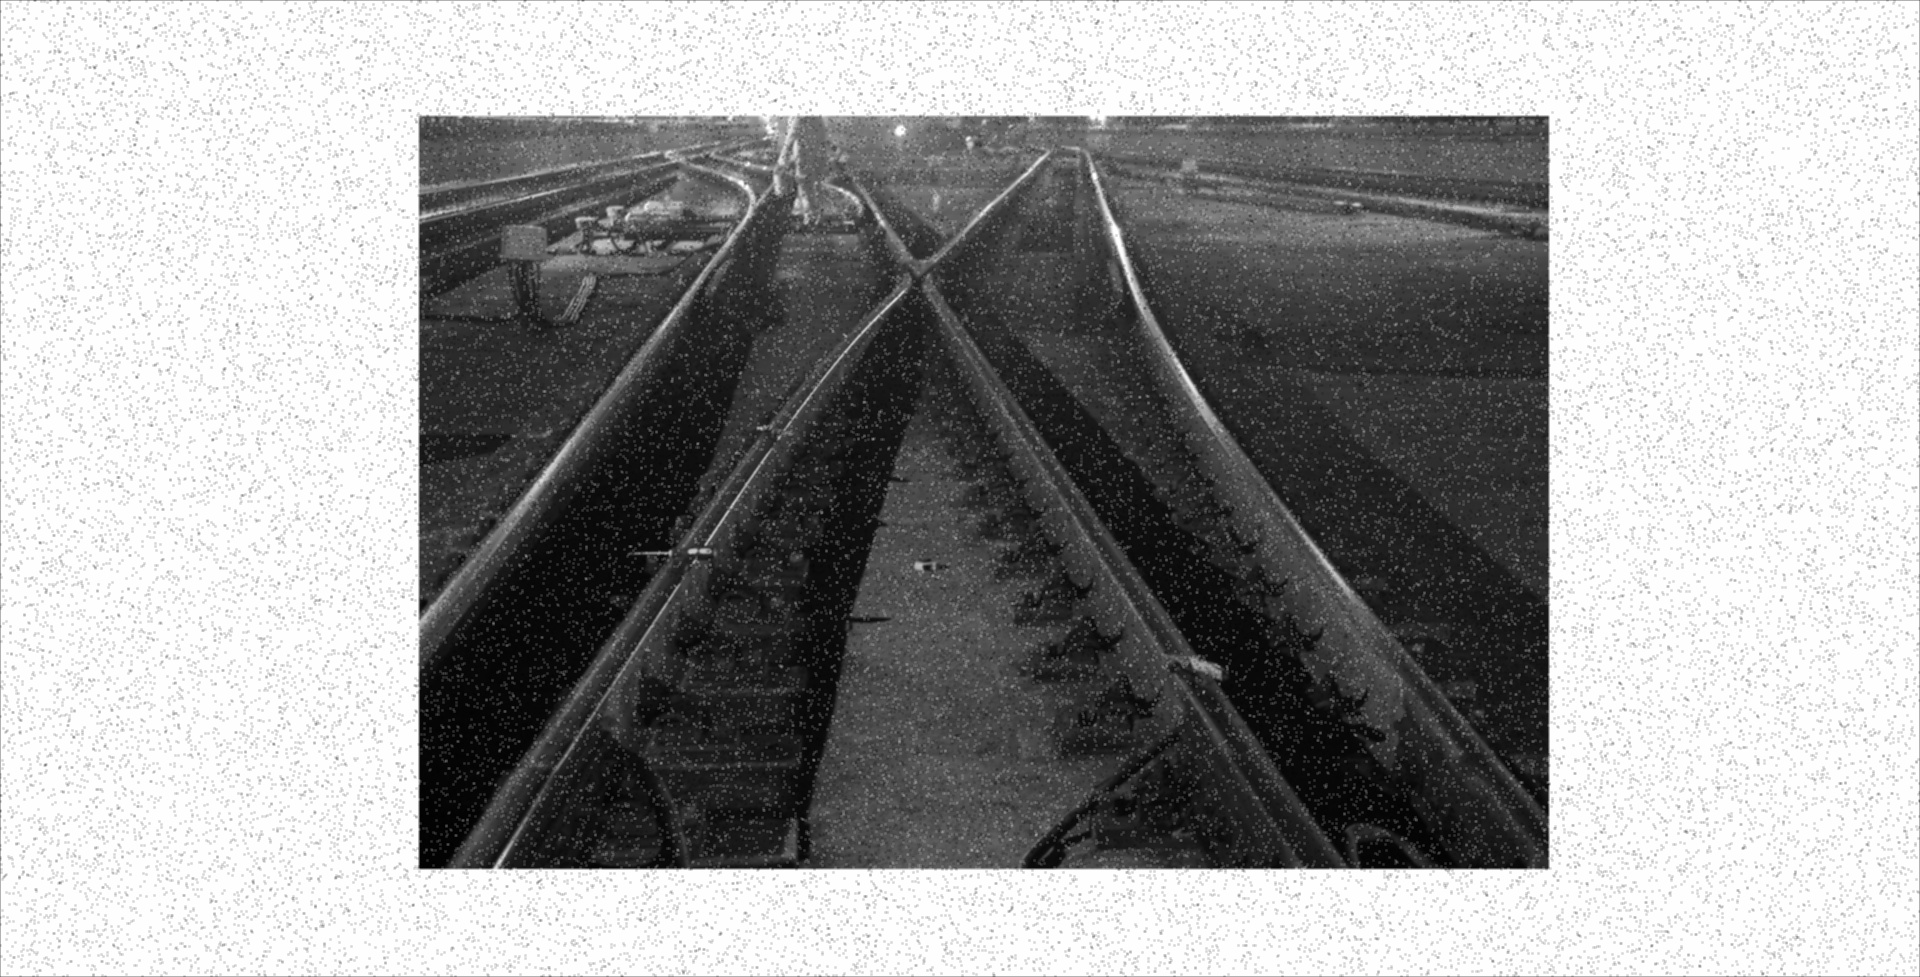
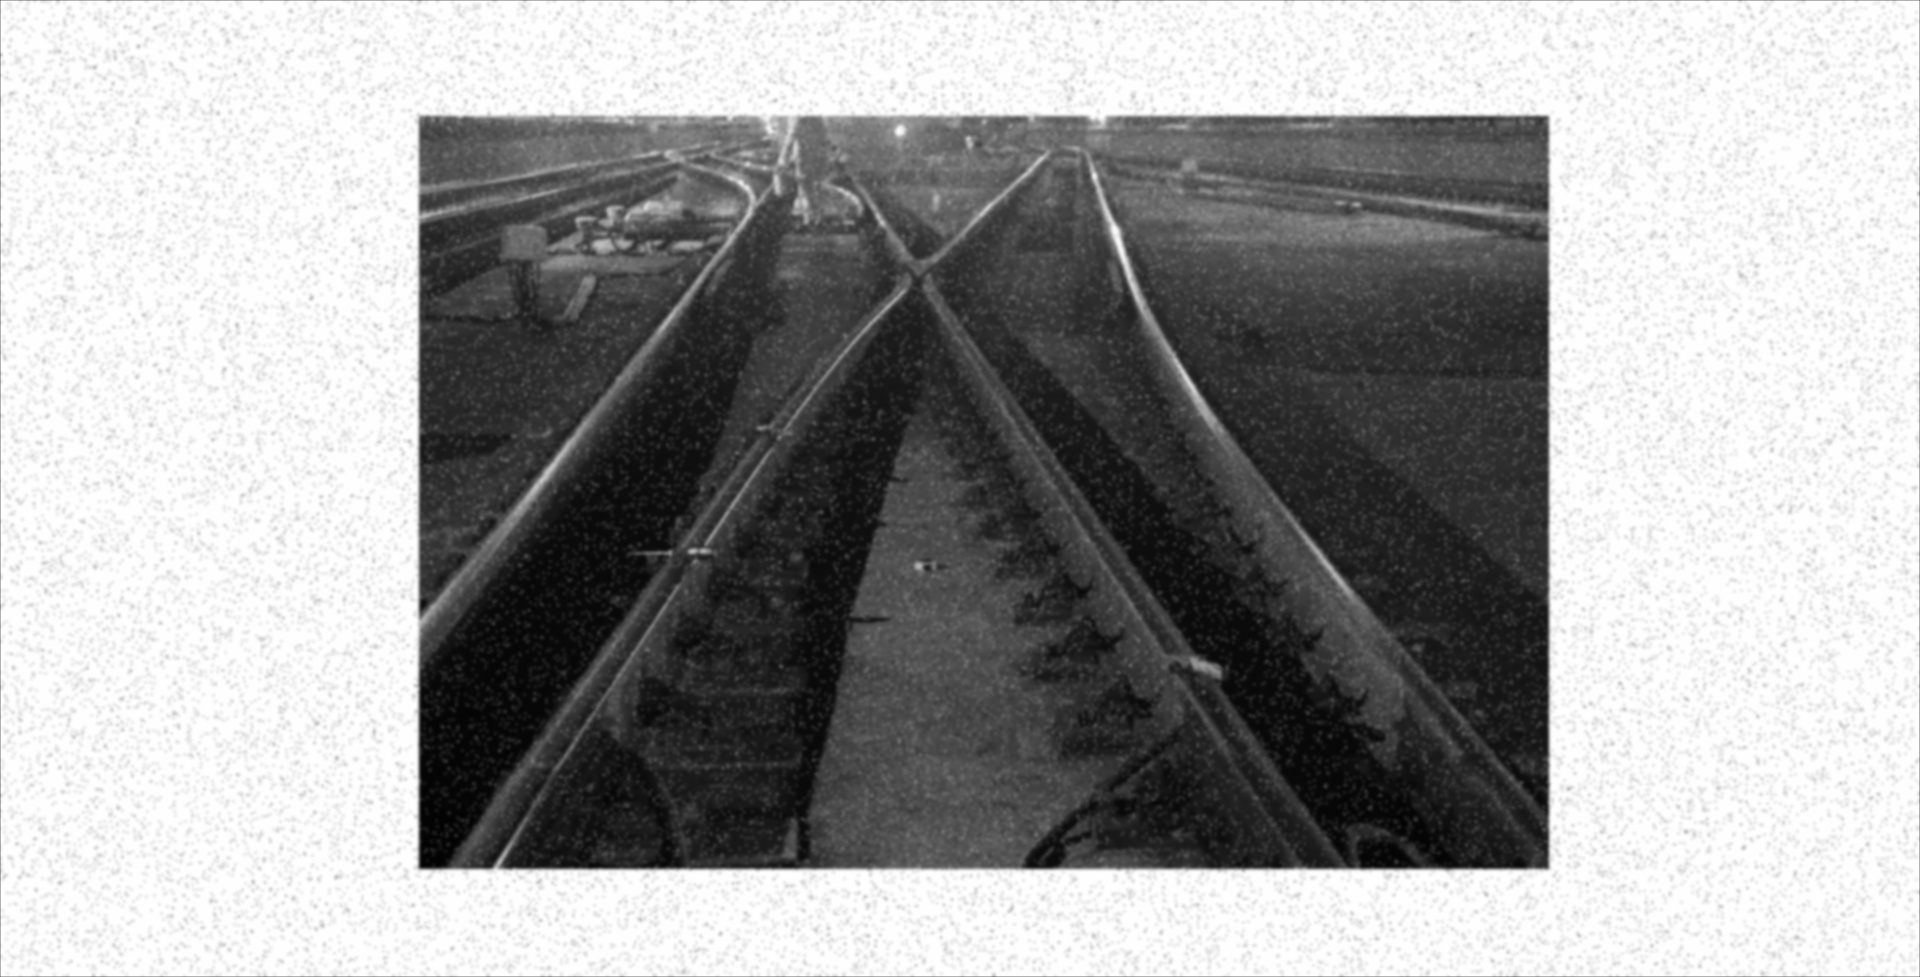
滤波compare

diff --git a/paper/gaussian-blur.py b/paper/gaussian-blur.py
@@ -1,0 +1,48 @@
+import cv2
+from PIL import Image
+import numpy as np
+
+
+
+
+def AddNoise(src, dst, probility=0.05, method="salt_pepper"):
+    imarray = np.array(Image.open(src))
+    height = imarray.shape[0]
+    width = imarray.shape[1]
+
+    for i in range(height):
+        for j in range(width):
+            if np.random.random(1) < probility:
+                if np.random.random(1) < 0.5:
+                    imarray[i, j] = 0
+                else:
+                    imarray[i, j] = 255
+    new_im = Image.fromarray(imarray)
+    new_im.save(dst)
+
+def gauss_blur(img, ksize, sigma):
+    '''
+    高斯模糊
+    :param img: 原始图片
+    :param ksize: 高斯内核大小。 ksize.width和ksize.height可以不同，但它们都必须为正数和奇数，也可以为零
+    :param sigma: 标准差，如果写0，则函数会自行计算
+    :return:
+    '''
+    # 外部调用传入正整数即可,在这里转成奇数
+    k_list = list(ksize)
+    kw = (k_list[0] * 2) + 1
+    kh = (k_list[1] * 2) + 1
+    resultImg = cv2.GaussianBlur(img, (kw, kh), sigma)
+    return resultImg
+
+
+img = cv2.imread('gray2.png')
+resultImg = gauss_blur(img, (3, 3), 0)
+cv2.imshow('111',resultImg)
+cv2.imwrite('source_temp.png',resultImg)
+
+src = "E:\pycharm\pythonDataStructure\paper\source_temp.png"
+dst = "E:\pycharm\pythonDataStructure\paper\source2.png"
+AddNoise(src,dst)
+cv2.waitKey(0)
+cv2.destroyAllWindows()

diff --git a/paper/middle-filtering.py b/paper/middle-filtering.py
@@ -3,24 +3,6 @@
 # 中值滤波#
 import cv2
 import numpy as np
-from PIL import Image
-
-
-def AddNoise(src, dst, probility=0.05, method="salt_pepper"):
-    imarray = np.array(Image.open(src))
-    height = imarray.shape[0]
-    width = imarray.shape[1]
-
-    for i in range(height):
-        for j in range(width):
-            if np.random.random(1) < probility:
-                if np.random.random(1) < 0.5:
-                    imarray[i, j] = 0
-                else:
-                    imarray[i, j] = 255
-    new_im = Image.fromarray(imarray)
-    new_im.save(dst)
-
 
 def MedianFilter(img,k=3,padding=None):
     imarray=img
@@ -38,14 +20,10 @@ def MedianFilter(img,k=3,padding=None):
     return new_arr
 
 
-
-# src = "E:\pycharm\pythonDataStructure\paper\gray.png"
-# dst = "E:\pycharm\pythonDataStructure\paper\gray_noise.png"
-# AddNoise(src,dst)
-img = cv2.imread("gray_noise.png", 0)
+img = cv2.imread("source2.png", 0)
 result = MedianFilter(img)
-cv2.imwrite('middle.jpg', result)
-cv2.imshow("input", img)
+cv2.imwrite('middle2.jpg', result)
+# cv2.imshow("input", img)
 cv2.imshow("output", result)
 cv2.waitKey(0)
 cv2.destroyAllWindows()

diff --git a/paper/histogram.py b/paper/histogram.py
@@ -1,0 +1,46 @@
+#!/usr/bin/env python
+# coding: utf-8
+import cv2 as cv
+import matplotlib.pyplot as plt
+
+
+# 图片路径
+# （应避免有中文）
+image_path = r'gray2.png'
+
+
+# 读取图片
+# 类型：numpy.ndarray
+image = cv.imread(image_path)
+
+# 显示原图
+# cv.namedWindow('cat', cv.WINDOW_NORMAL)
+# cv.resizeWindow('cat', 200, 200)
+# cv.imshow('cat', image)
+# cv.waitKey(0)
+
+# 使用 ravel 拉直图像
+# ravel：将多维矩阵降为一维矩阵
+image_ravel = image.ravel()
+
+# 显示灰度直方图
+# plt.hist(image_ravel, 256, [0, 256])
+plt.hist(image_ravel)
+
+plt.show()
+
+color = ['blue', 'green', 'red']
+for i, color_sub in enumerate(color):
+    # 要计算的图
+    # 要计算的维度
+    # 要计算的区域ROI，计算整图则为None
+    # 子区段数目
+    # 要计算的像素范围
+    hist = cv.calcHist([image], [i], None, [256], [0, 256])
+    plt.plot(hist, color=color_sub)
+    plt.xlim([0, 256])
+plt.show()
+
+
+
+

diff --git a/paper/avage-filtering.py b/paper/avage-filtering.py
@@ -3,8 +3,8 @@ import cv2
 import glob
 from matplotlib import pyplot as plt
 
-img = cv2.imread(r'gray_noise.png', 0)
-cv2.imshow('img', img)
+img = cv2.imread(r'source2.png', 0)
+# cv2.imshow('img', img)
 img_copy = img.copy()
 width = img.shape[0]  # 宽
 length = img.shape[1]  # 高
@@ -29,7 +29,7 @@ for i in range(width):
         del slide_window[:]
 
 # print('okok---------')
-cv2.imwrite('avage.png',img_copy)
+cv2.imwrite('avage2.png',img_copy)
 cv2.imshow('img_after', img_copy)
 # print(img_copy.shape)
 cv2.waitKey(0)

diff --git a/paper/gaussian-filter.py b/paper/gaussian-filter.py
@@ -33,11 +33,11 @@ def gaussian_filter(img, K_size=3, sigma=1.3):
     return out
 
 # Read image
-img = cv2.imread("gray_noise.png")
+img = cv2.imread("source2.png")
 # Gaussian Filter
 out = gaussian_filter(img, K_size=3, sigma=1.3)
 # Save result
-cv2.imwrite("gaussian.jpg", out)
+cv2.imwrite("gaussian2.jpg", out)
 cv2.imshow("result", out)
 cv2.waitKey(0)
 cv2.destroyAllWindows()

diff --git a/paper/rgb2gray.py b/paper/rgb2gray.py
@@ -1,12 +1,13 @@
 from PIL import Image
 import matplotlib.pyplot as plt
 
-img = Image.open('E:\Masters\pic\\railpic\IMG_4318.JPG')
+img = Image.open('E:\Masters\pic\\railpic2\IMG_4519.JPG')
 
 gray=img.convert('L')
 
 plt.figure('pokemon')
 
+# plt.imsave('gray2',gray)
 plt.imshow(gray,cmap ='gray')
 
 plt.axis('off')
